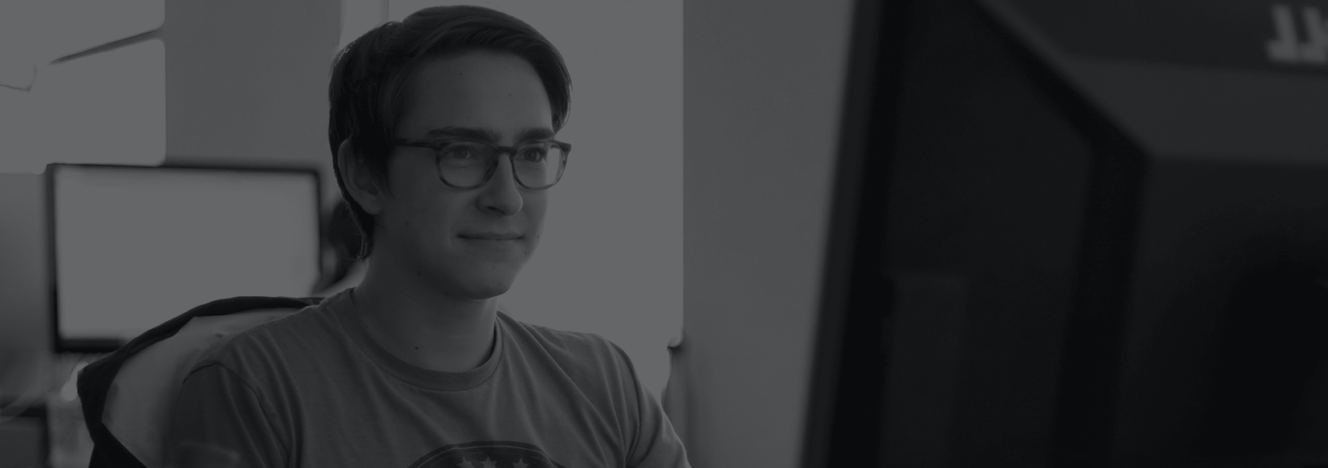
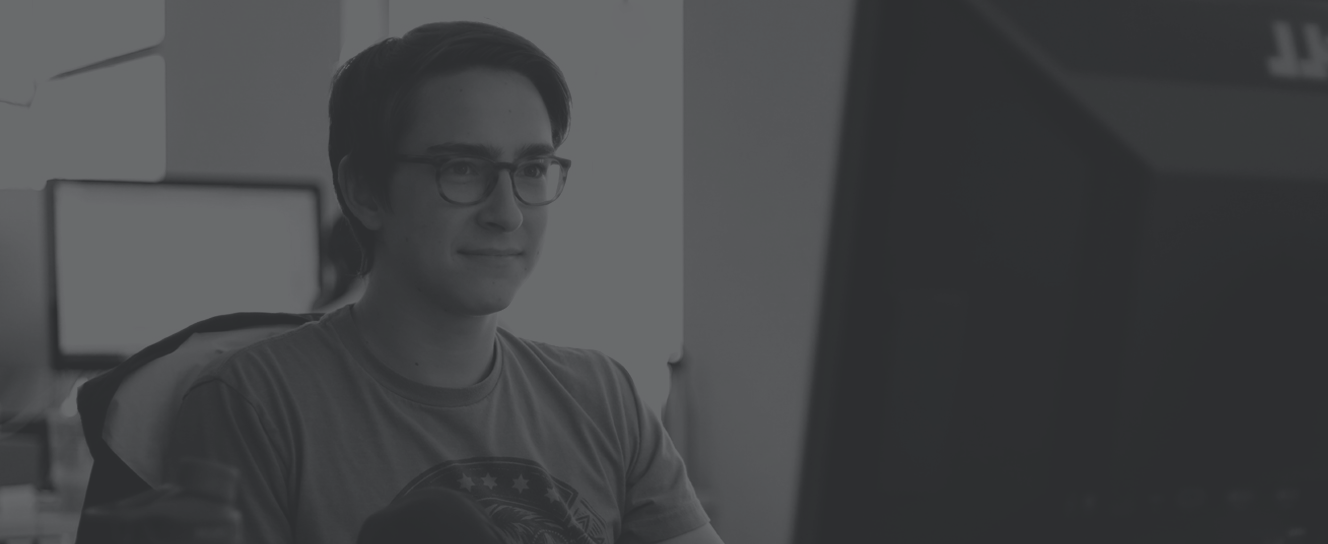
Adding layouts for more pages.

diff --git a/contact/index.html b/contact/index.html
@@ -1,10 +1,41 @@
-<!DOCTYPE html PUBLIC "-//W3C//DTD XHTML 1.0 Transitional//EN" "http://www.w3.org/TR/xhtml1/DTD/xhtml1-transitional.dtd">
-<html xmlns="http://www.w3.org/1999/xhtml">
-    <head>
-        <meta http-equiv="Content-Type" content="text/html; charset=UTF-8" />
-        <title>Untitled Document</title>
-    </head>
-    
-    <body>
-    </body>
-</html>
+---
+layout: default
+title: Contact
+class: "page__contact"
+---
+{% include header.html %}
+<section class="site__hero">
+  <div class="grid site__hero__headline">
+  </div>
+</section>
+<section class="site__content">
+  <div class="grid">
+    <div class="grid__col grid__col--6-of-12">
+      <h2>A little bit about myself</h2>
+      <p>Hello there, my name is Joshua Söhn and I'm a designer and front-end developer from Düsseldorf, Germany.</p>
+      <p>I love to craft user-friendly interfaces and build beautiful websites by using simple design and modern web-standards. Bringing content to the user without distracting him and using beautiful typography and color schemes to achieve that is my passion and my hobby.</p>
+      <p>After being self-taught for about 3 years I am now working and learning at Grey Germany. I'm also working part-time as an UX and visual designer at Lookbook.</p>
+      <h2>Services</h2>
+      <h3>—Design</h3>
+
+<p>Editorial, Interface, Illustration, Brand, Art Direction, and Web, with a focus on responsive design strategy and integrated storytelling using image and text.<br></p>
+
+<h3>—Consultancy</h3>
+
+<p>Concept, Strategy, Copy, Imagery, with a focus on finding consistent voice, appropriate tone, and overall fit.</p>
+
+<h3>—Community</h3>
+
+<p>Over the years, we’ve built a network of the best illustrators, photographers, developers, writers, and editors. If our project needs that extra touch, we know who’d be best. We love to collaborate.</p>
+    </div>
+    <div class="grid__col grid__col--3-of-12 grid__col--push-1-of-12">
+      <h2>Non-fun facts</h2>
+      <h3>Location</h3>
+      <p>Cleveland, Ohio</p>
+      <h3>Likes</h3>
+      <p>Classical music, minimalism, typography, literature, running, politics, liberty, coffee.</p>
+      <h3>Dislikes (take these with a grain of salt)</h3>
+      <p>Country music, aestheticism, purple, Kid Rock, the Obama administration, bad kerning, planking.</p>
+    </div>
+  </div>
+</section>

diff --git a/profile/index.html b/profile/index.html
@@ -1,10 +1,41 @@
-<!DOCTYPE html PUBLIC "-//W3C//DTD XHTML 1.0 Transitional//EN" "http://www.w3.org/TR/xhtml1/DTD/xhtml1-transitional.dtd">
-<html xmlns="http://www.w3.org/1999/xhtml">
-    <head>
-        <meta http-equiv="Content-Type" content="text/html; charset=UTF-8" />
-        <title>Untitled Document</title>
-    </head>
-    
-    <body>
-    </body>
-</html>
+---
+layout: default
+title: Profile
+class: "page__profile"
+---
+{% include header.html %}
+<section class="site__hero">
+  <div class="grid site__hero__headline">
+  </div>
+</section>
+<section class="site__content">
+  <div class="grid">
+    <div class="grid__col grid__col--6-of-12">
+      <h2>A little bit about myself</h2>
+      <p>Hello there, my name is Joshua Söhn and I'm a designer and front-end developer from Düsseldorf, Germany.</p>
+      <p>I love to craft user-friendly interfaces and build beautiful websites by using simple design and modern web-standards. Bringing content to the user without distracting him and using beautiful typography and color schemes to achieve that is my passion and my hobby.</p>
+      <p>After being self-taught for about 3 years I am now working and learning at Grey Germany. I'm also working part-time as an UX and visual designer at Lookbook.</p>
+      <h2>Services</h2>
+      <h3>—Design</h3>
+
+<p>Editorial, Interface, Illustration, Brand, Art Direction, and Web, with a focus on responsive design strategy and integrated storytelling using image and text.<br></p>
+
+<h3>—Consultancy</h3>
+
+<p>Concept, Strategy, Copy, Imagery, with a focus on finding consistent voice, appropriate tone, and overall fit.</p>
+
+<h3>—Community</h3>
+
+<p>Over the years, we’ve built a network of the best illustrators, photographers, developers, writers, and editors. If our project needs that extra touch, we know who’d be best. We love to collaborate.</p>
+    </div>
+    <div class="grid__col grid__col--3-of-12 grid__col--push-1-of-12">
+      <h2>Non-fun facts</h2>
+      <h3>Location</h3>
+      <p>Cleveland, Ohio</p>
+      <h3>Likes</h3>
+      <p>Classical music, minimalism, typography, literature, running, politics, liberty, coffee.</p>
+      <h3>Dislikes (take these with a grain of salt)</h3>
+      <p>Country music, aestheticism, purple, Kid Rock, the Obama administration, bad kerning, planking.</p>
+    </div>
+  </div>
+</section>

diff --git a/_assets/sass/modules/_hero.scss b/_assets/sass/modules/_hero.scss
@@ -1,7 +1,7 @@
 .site__hero {
   background-image: url('/uploads/2014/10/profile.png');
   width: 100%;
-  height: 436px;
+  height: 544px;
   margin-bottom: $baseline;
 }
 
@@ -10,4 +10,12 @@
   position: relative;
   top: 50%;
   transform: translateY(-50%);
+  transform: translateY(-75px);
+}
+
+.page__contact {
+  .site__hero {
+    background-image: url("/uploads/2014/10/telegraph.png");
+    background-position: -196px -361px;
+  }
 }

diff --git a/_assets/sass/modules/_header.scss b/_assets/sass/modules/_header.scss
@@ -1,6 +1,10 @@
 .site__header {
   height: 75px;
-  background: $color--background;
+  background: rgba(16,17,19,0.86);
+  color: #fff;
+  position: fixed;
+  width: 100%;
+  z-index: 900;
   & > * {
     position: relative;
     top: 50%;
@@ -8,7 +12,7 @@
   }
   a {
     text-decoration: none;
-    color: $color--light-grey;
+    color: #fff;
     &.current {
       font-weight: 700;
     }

diff --git a/_layouts/default.html b/_layouts/default.html
@@ -14,16 +14,4 @@
   {{ content }}
 </body>
 {% javascript devin %}
-<script>
-  var options = {
-    offset: '.site__content',
-    classes: {
-      clone: 'site__header__adhesive',
-      stick: 'site__header__adhesive--stick',
-      unstick: 'site__header__adhesive--unstick'
-    },
-  }
-
-  var headhesive = new Headhesive('.site__header', options);
-</script>
 </html>

diff --git a/_assets/sass/partials/_variables.scss b/_assets/sass/partials/_variables.scss
@@ -1,7 +1,7 @@
 $font--sans-serif: 'Whitney SSm A', 'Whitney SSm B', Geneva, Verdana, san-serif;
 $font--sans-serif--sc: 'Whitney SSm SC A', 'Whitney SSm SC B', Geneva, Verdana, sans-serif;
 
-$base-font-size: (18/16)*100%;
+$base-font-size: (17/16)*100%;
 $baseline-unitless: 28/(16*($base-font-size/100%));
 $baseline: $baseline-unitless * 1rem;
 
